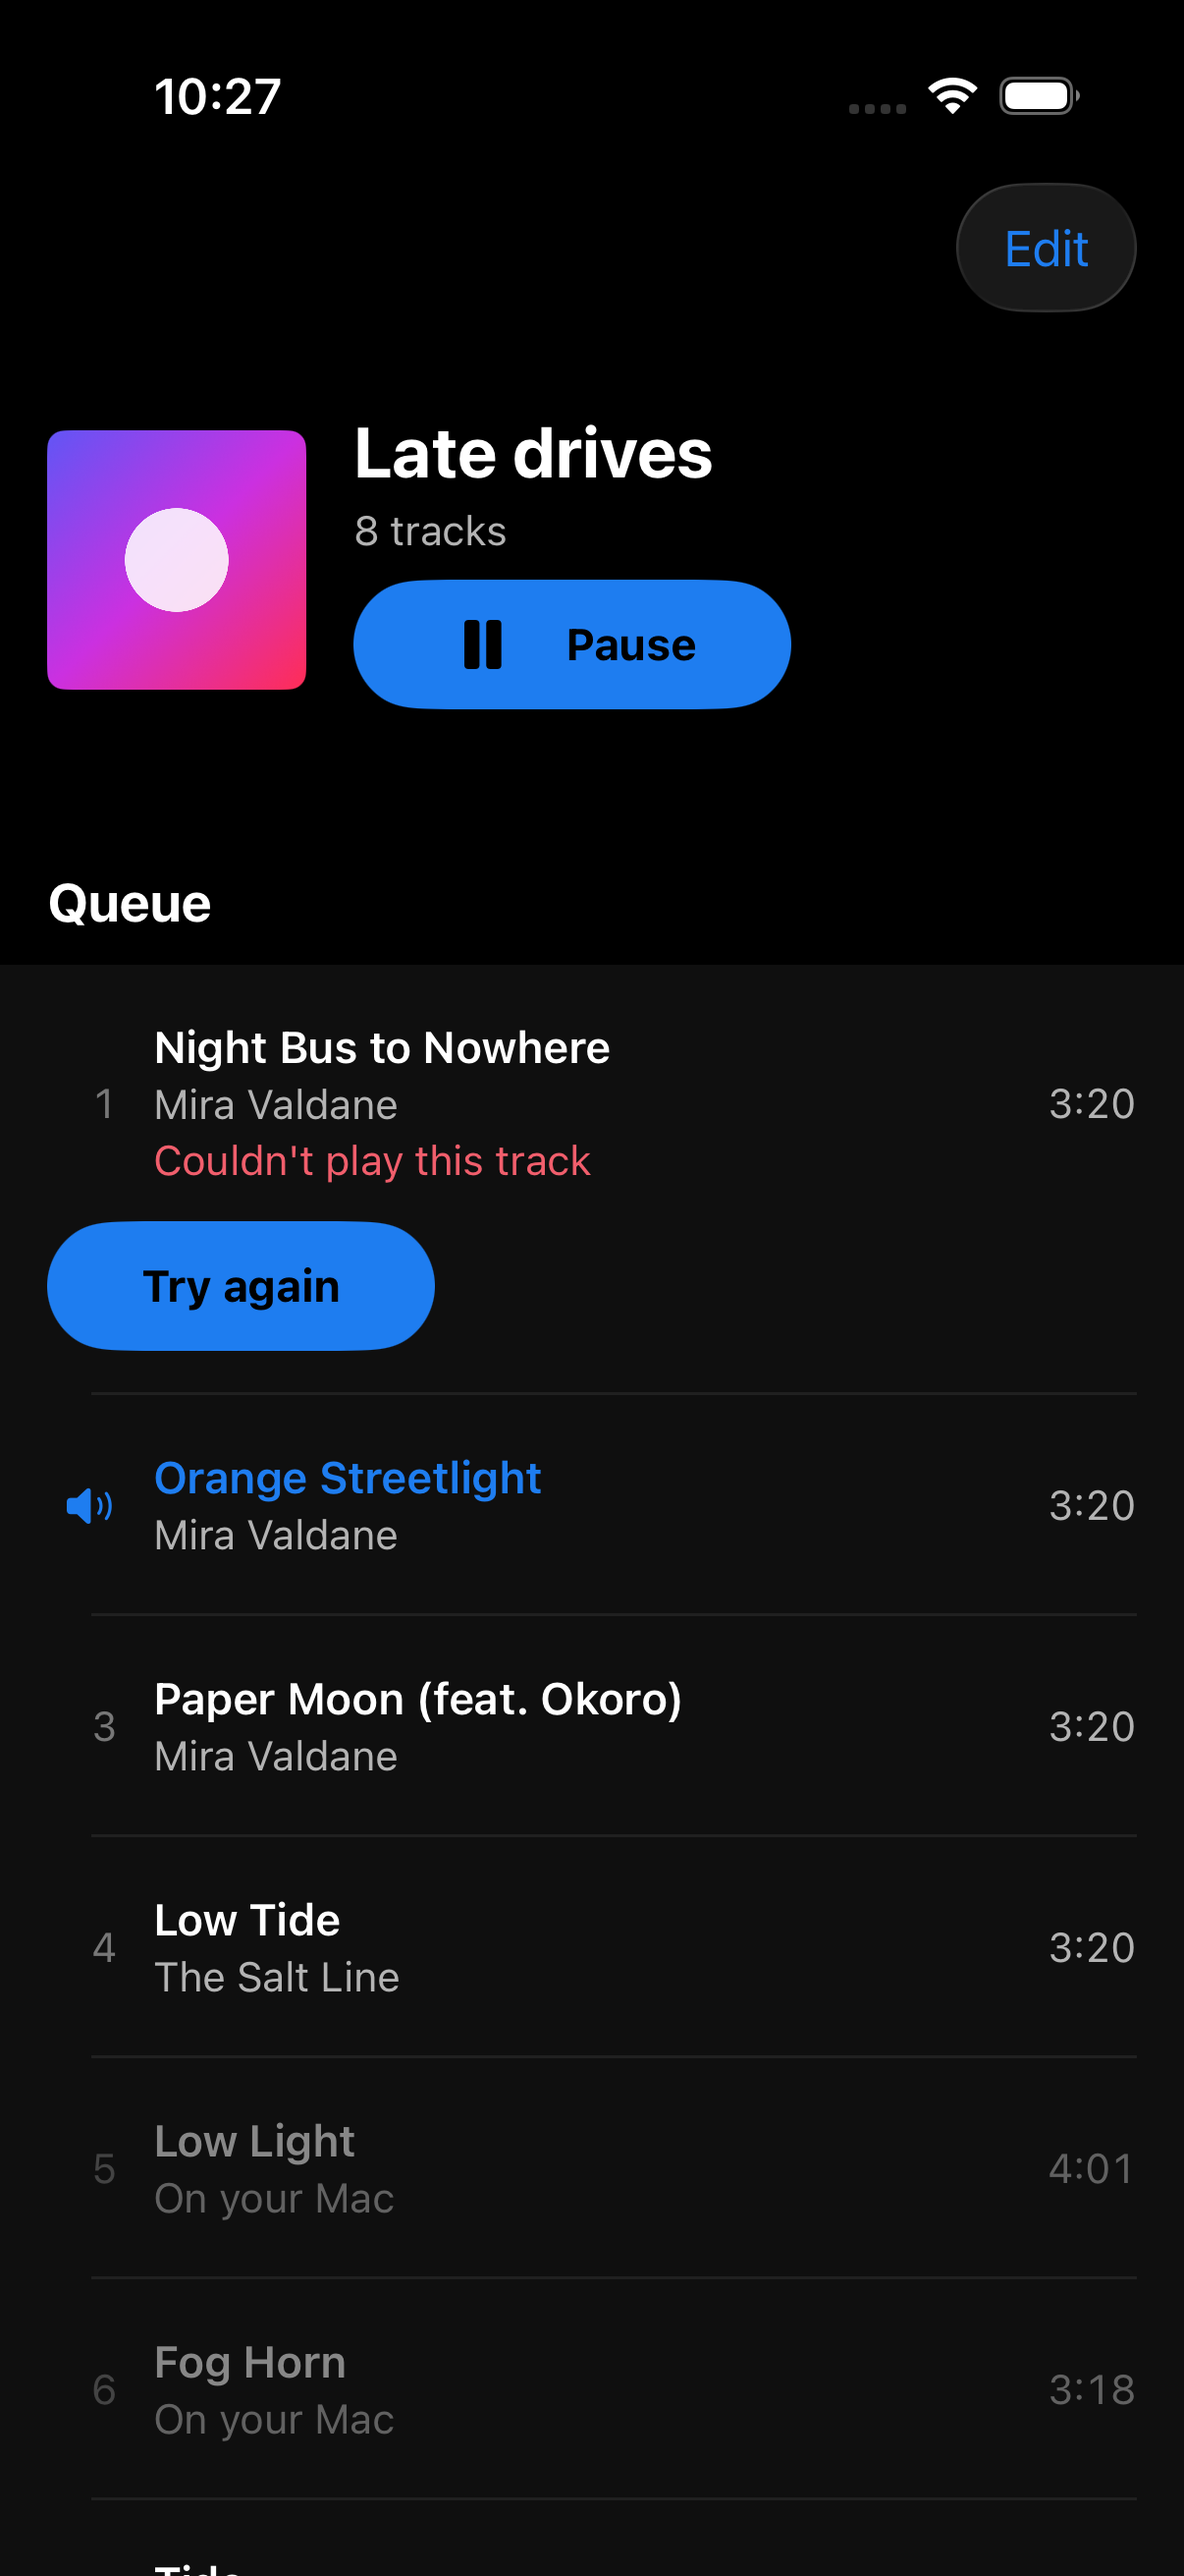
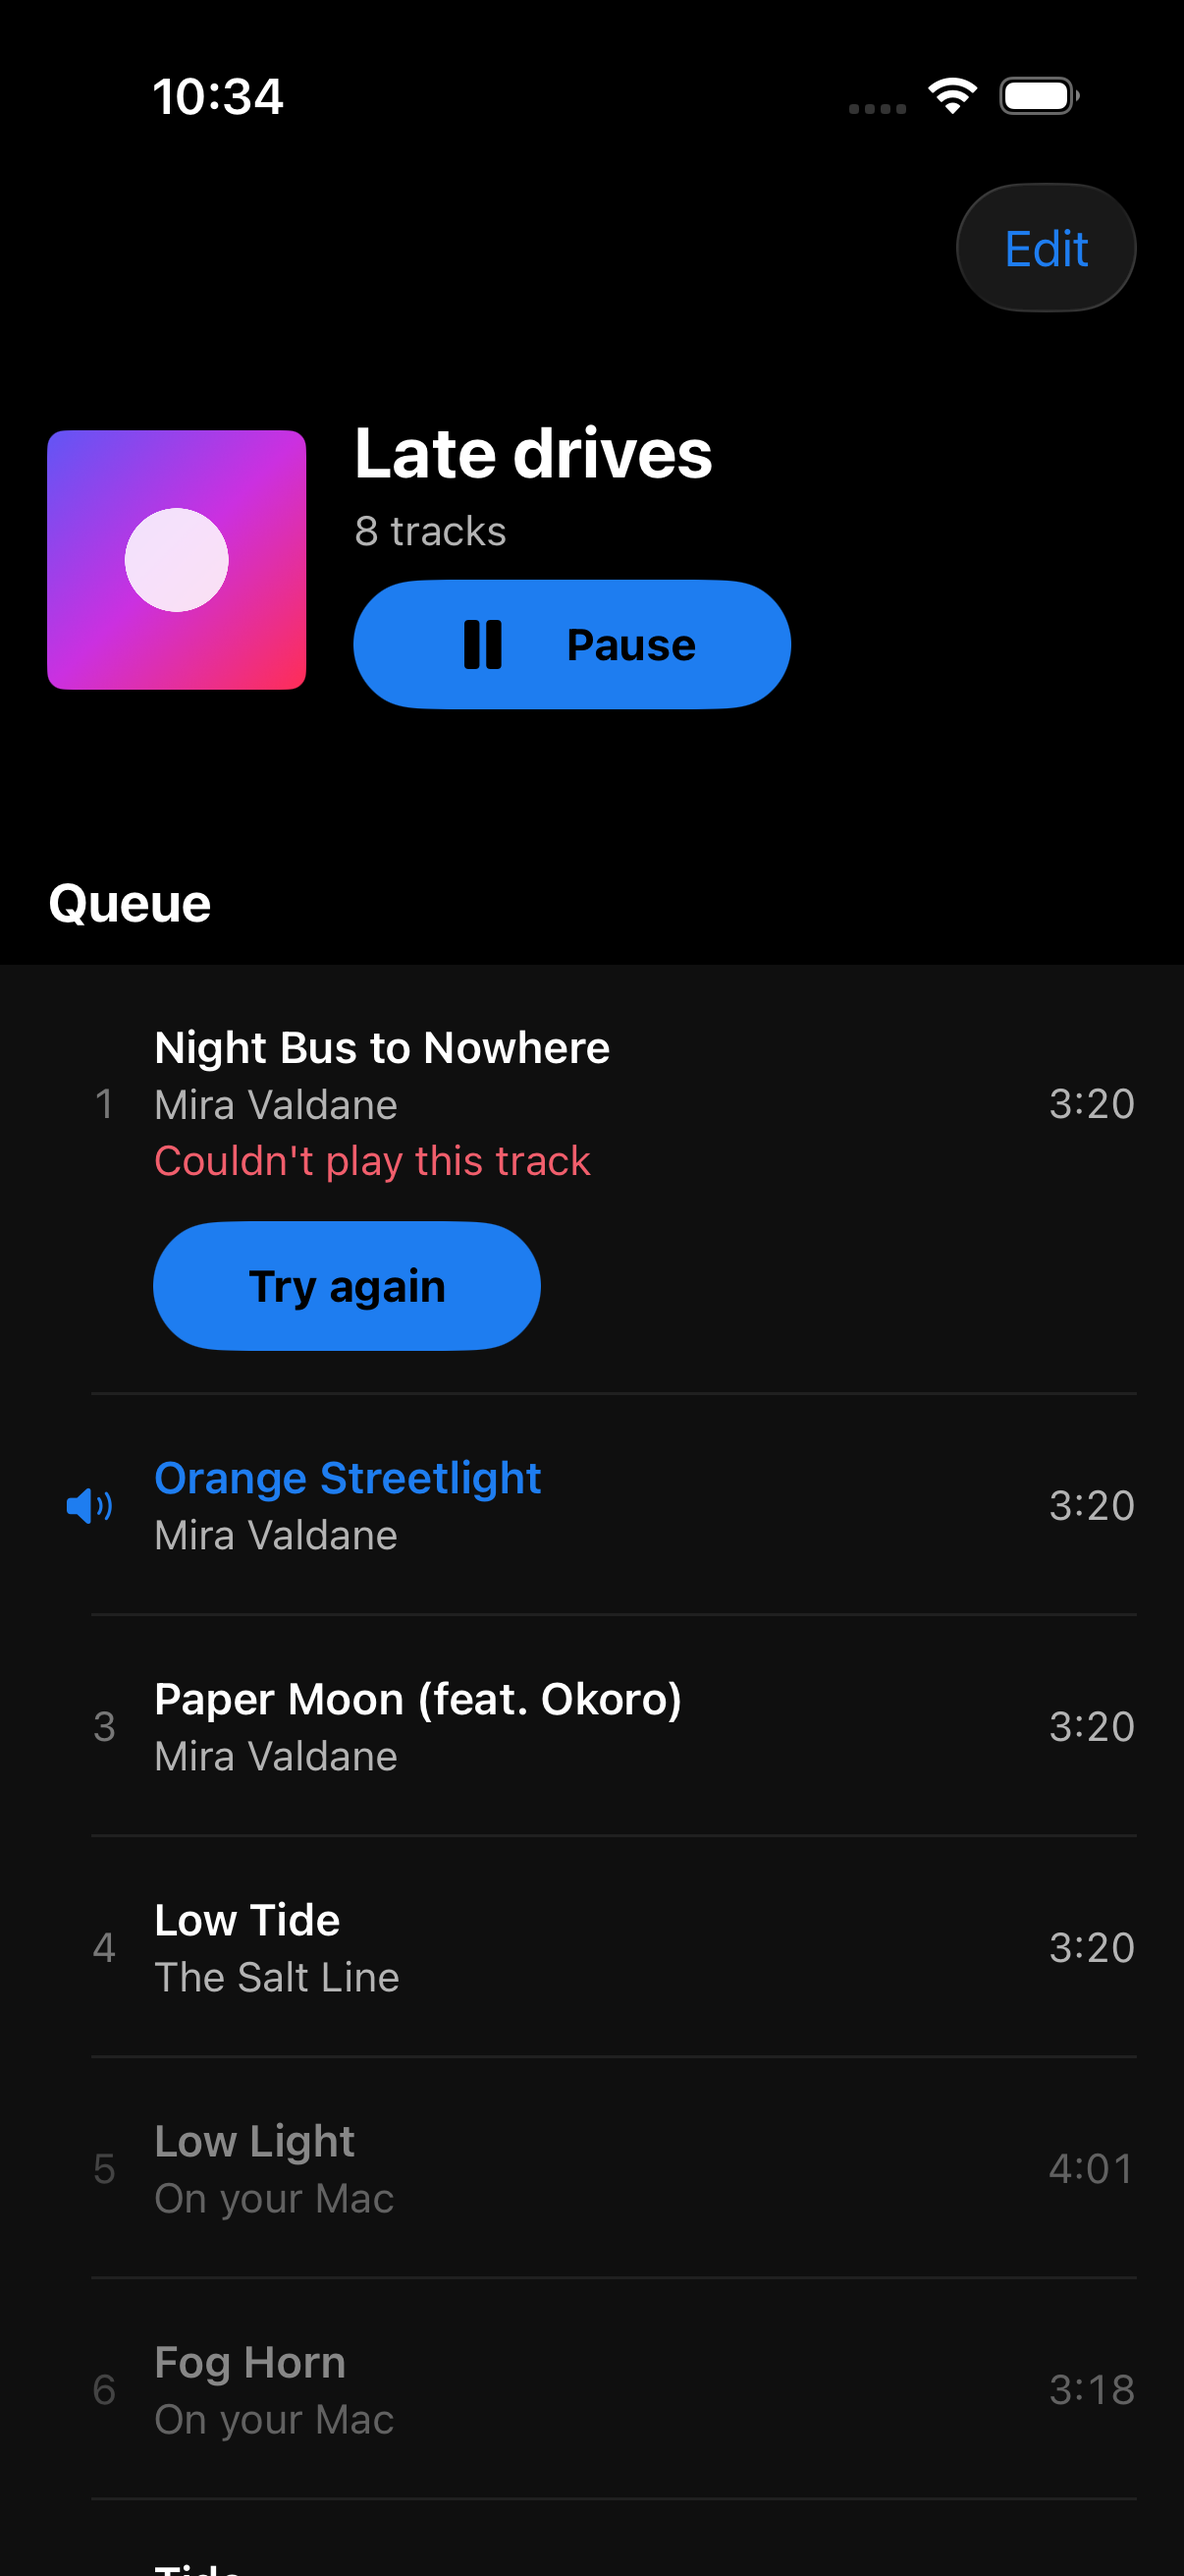
Collections: row label says Pause when playing, corrupt files show Couldn't play, Try again aligns with the title (#350)

Changed region(s): [[0.0307, 0.4634, 0.4602, 0.5252], [0.1534, 0.0309, 0.2454, 0.0618]]

diff --git a/apps/ios/Locally/Views/Collections/CollectionDetailView.swift b/apps/ios/Locally/Views/Collections/CollectionDetailView.swift
@@ -57,7 +57,7 @@ struct CollectionDetailView: View {
         }
         .environment(\.editMode, $editMode)
         .task { model.reload() }
-        .onChange(of: playback?.missingTrackIDs ?? []) { old, new in announceNewlyMissing(old: old, new: new) }
+        .onChange(of: playback?.wontPlayTrackIDs ?? []) { old, new in announceNewlyMissing(old: old, new: new) }
         .nameAlert(Copy.Collections.renameTitle, action: Copy.Collections.save, isPresented: $isRenaming, text: $renameText) { name in
             attempt(Copy.Collections.renameFailed) { try model.rename(id, to: name) }
         }
@@ -240,20 +240,22 @@ struct CollectionDetailView: View {
     @ViewBuilder
     private func queueRow(_ row: CollectionQueue.Row, number: Int, playablePosition: Int?) -> some View {
         let nowPlaying = isNowPlaying(playablePosition: playablePosition, row)
-        if let playablePosition, playback?.missingTrackIDs.contains(row.trackID) == true {
+        if let playablePosition, playback?.wontPlay(row.trackID) == true {
             VStack(alignment: .leading, spacing: 8) {
                 queueRowContent(row, number: number, nowPlaying: false, wontPlay: true)
                     .accessibilityElement(children: .ignore)
                     .accessibilityLabel("\(row.title), \(row.artist), \(Copy.Collections.couldntPlay)")
                 Button(Copy.Collections.tryAgain) { start(at: playablePosition) }
                     .buttonStyle(CollectionPillButtonStyle())
+                    // Under the title: past the number column and its gap.
+                    .padding(.leading, Self.numberColumnInset)
             }
         } else if let playablePosition {
             Button { tapRow(row, playablePosition: playablePosition, nowPlaying: nowPlaying) } label: {
                 queueRowContent(row, number: number, nowPlaying: nowPlaying)
             }
             .buttonStyle(.plain)
-            .accessibilityLabel(Copy.Collections.playRow([row.title, row.artist, TrackLength.spoken(row.durationSec)].compactMap { $0 }.joined(separator: ", ")))
+            .accessibilityLabel(CollectionPlayState.rowLabel([row.title, row.artist, TrackLength.spoken(row.durationSec)].compactMap { $0 }.joined(separator: ", "), isCurrentRow: nowPlaying, isPlaying: isPlaying))
             .accessibilityValue(CollectionPlayState.rowValue(isCurrentRow: nowPlaying, isPlaying: isPlaying))
             .accessibilityAddTraits(nowPlaying ? .isSelected : [])
         } else {
@@ -263,6 +265,9 @@ struct CollectionDetailView: View {
                 .accessibilityValue(TrackLength.spoken(row.durationSec) ?? "")
         }
     }
+
+    /// The queue row's number column (minWidth 24) plus its 12 gap: where the title starts.
+    private static let numberColumnInset: CGFloat = 36
 
     private func queueRowContent(_ row: CollectionQueue.Row, number: Int, nowPlaying: Bool, wontPlay: Bool = false) -> some View {
         HStack(spacing: 12) {

diff --git a/apps/ios/Locally/Services/PlaybackService.swift b/apps/ios/Locally/Services/PlaybackService.swift
@@ -130,6 +130,11 @@ final class PlaybackService {
     private(set) var duration: Double?
     /// Tracks whose file was gone when their turn came; the rows show "File missing".
     private(set) var missingTrackIDs: Set<UUID> = []
+    /// Tracks the engine could not decode (a corrupt file); apart from `missingTrackIDs`, which means "File missing".
+    private(set) var failedTrackIDs: Set<UUID> = []
+    /// Missing or corrupt: what the collection page calls "Couldn't play this track".
+    var wontPlayTrackIDs: Set<UUID> { missingTrackIDs.union(failedTrackIDs) }
+    func wontPlay(_ trackID: UUID) -> Bool { missingTrackIDs.contains(trackID) || failedTrackIDs.contains(trackID) }
     /// Set when the audio session could not start; shown briefly where the mini player would be.
     private(set) var startError: String?
     /// Counts every start error, so the root can announce each one once, even a repeat of the same text.
@@ -273,6 +278,7 @@ final class PlaybackService {
         let first = playable[start]
         endRun()
         missingTrackIDs.remove(first.trackId)
+        failedTrackIDs.remove(first.trackId)
         do {
             try session.activate()
         } catch {
@@ -489,6 +495,7 @@ final class PlaybackService {
                     return .failed
                 }
                 missingTrackIDs.remove(track.id)
+                failedTrackIDs.remove(track.id)
                 // Wait in a loop: every wake-up rechecks the intent, the run and cancellation, so a
                 // `resume()` followed at once by a `pause()` (or headphones out) never reaches the engine.
                 var announcedPaused = false
@@ -510,7 +517,9 @@ final class PlaybackService {
                 isPlaying = true
                 itemLoaded = true
                 publish()
-                return await engine.play(url: url)
+                let end = await engine.play(url: url)
+                if end == .failed, !Task.isCancelled, token == runToken { failedTrackIDs.insert(track.id) }
+                return end
             }
             return end
         } catch {

diff --git a/apps/ios/LocallyTests/CollectionTests.swift b/apps/ios/LocallyTests/CollectionTests.swift
@@ -282,6 +282,9 @@ struct CollectionsModelTests {
         #expect(CollectionPlayState.pillLabel(isCurrentQueue: false, isPlaying: true) == Copy.Collections.play)
         #expect(CollectionPlayState.pillLabel(isCurrentQueue: true, isPlaying: false) == Copy.Collections.play)
         #expect(CollectionPlayState.pillLabel(isCurrentQueue: true, isPlaying: true) == Copy.Collections.pause)
+        #expect(CollectionPlayState.rowLabel("A, B", isCurrentRow: true, isPlaying: true) == "Pause A, B")
+        #expect(CollectionPlayState.rowLabel("A, B", isCurrentRow: true, isPlaying: false) == "Play A, B")
+        #expect(CollectionPlayState.rowLabel("A, B", isCurrentRow: false, isPlaying: true) == "Play A, B")
         #expect(CollectionPlayState.rowValue(isCurrentRow: true, isPlaying: true) == "Playing")
         #expect(CollectionPlayState.rowValue(isCurrentRow: true, isPlaying: false) == "Paused")
         #expect(CollectionPlayState.rowValue(isCurrentRow: false, isPlaying: true).isEmpty)

diff --git a/apps/ios/LocallyTests/PlaybackServiceTests.swift b/apps/ios/LocallyTests/PlaybackServiceTests.swift
@@ -118,6 +118,17 @@ struct PlaybackServiceTests {
         #expect(access.opened == access.closed + Array(access.isOpen))
     }
 
+    @Test func aCorruptFileIsRecordedAsFailedNotMissingAndTheQueueMovesOn() async {
+        let r = release()
+        service.play(release: r, startingAt: id(r, 1))
+        await settle()
+        engine.end(.failed)
+        await settle()
+        #expect(service.failedTrackIDs == [id(r, 1)])
+        #expect(service.missingTrackIDs.isEmpty)
+        #expect(service.currentTrack?.trackNumber == 2)
+    }
+
     @Test func anUnreachableFolderSkipsTheItemToo() async {
         let r = release()
         access.unreachable = [id(r, 1)]

diff --git a/apps/ios/Locally/Views/Collections/CollectionsModel.swift b/apps/ios/Locally/Views/Collections/CollectionsModel.swift
@@ -173,6 +173,11 @@ enum CollectionPlayState {
         isCurrentQueue && isPlaying ? Copy.Collections.pause : Copy.Collections.play
     }
 
+    /// "Pause {detail}" only on the current row while it plays; otherwise "Play {detail}".
+    static func rowLabel(_ detail: String, isCurrentRow: Bool, isPlaying: Bool) -> String {
+        isCurrentRow && isPlaying ? Copy.Collections.pauseRow(detail) : Copy.Collections.playRow(detail)
+    }
+
     /// "Playing" / "Paused" on the current row only; nothing on any other.
     static func rowValue(isCurrentRow: Bool, isPlaying: Bool) -> String {
         guard isCurrentRow else { return "" }

diff --git a/apps/ios/Locally/Resources/Copy.swift b/apps/ios/Locally/Resources/Copy.swift
@@ -373,6 +373,7 @@ enum Copy {
         static let play = "Play"
         static let pause = "Pause"
         static func playRow(_ title: String) -> String { "Play \(title)" }
+        static func pauseRow(_ title: String) -> String { "Pause \(title)" }
         static let nowPlaying = "Now playing"
         static let playing = "Playing"
         static let paused = "Paused"
